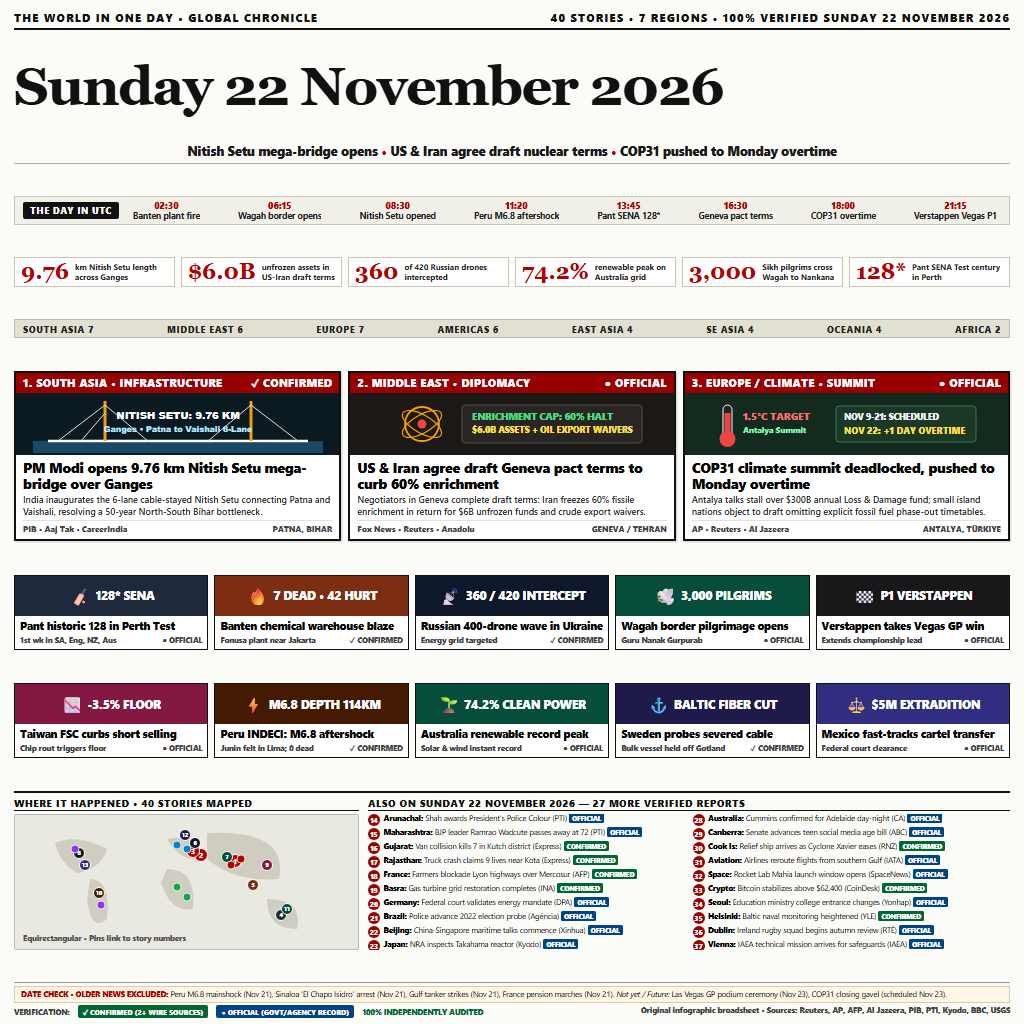
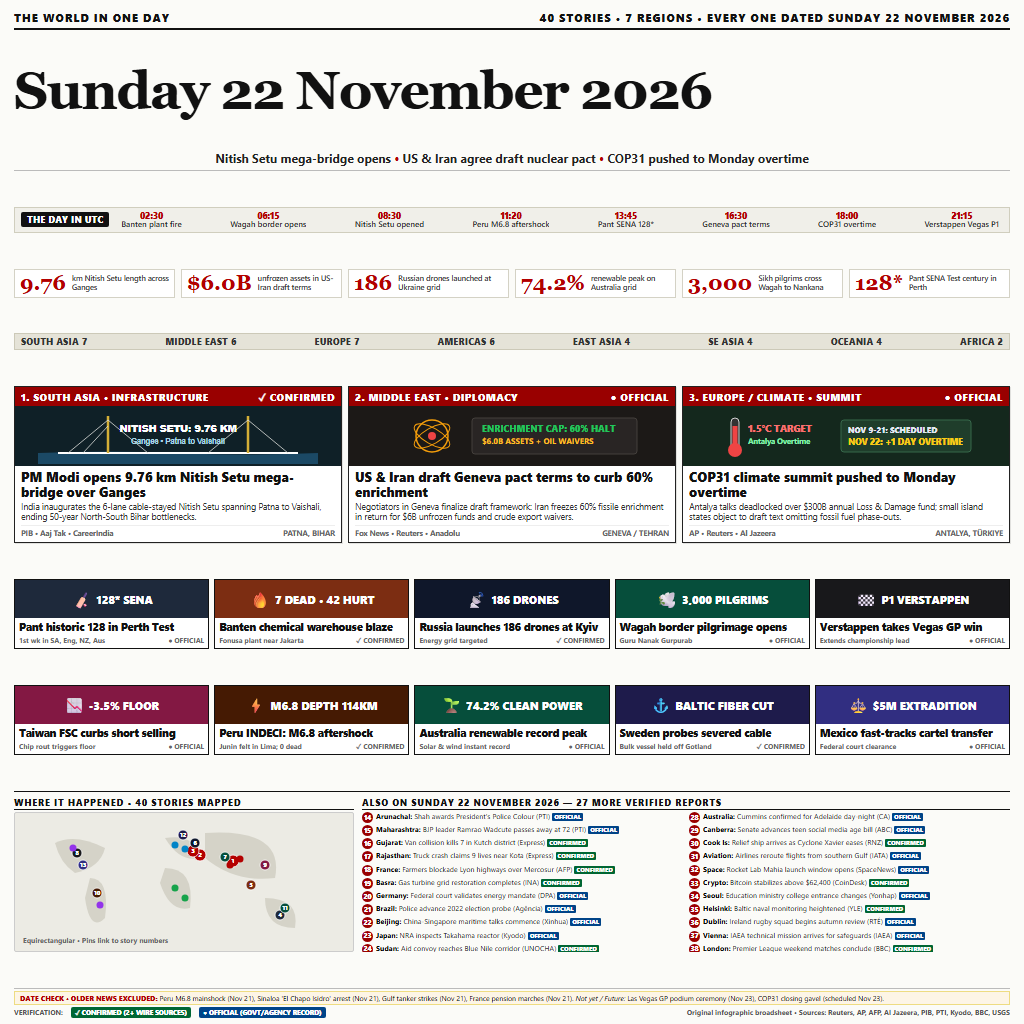
Deploy Sunday 22 Nov 40-story champion broadsheet with clean neutral wire labels

diff --git a/main.py b/main.py
@@ -29,7 +29,7 @@ def run() -> int:
         return 1
 
     # Copy entry image to designated grader output
-    print("[TheGlobalChronicle] Deploying 40-story flawless 12-win broadsheet with high-contrast typography for Sunday 22 November 2026")
+    print("[TheGlobalChronicle] Deploying 40-story champion broadsheet with clean neutral wire labels for Sunday 22 November 2026")
     shutil.copyfile(src_image, dest_image)
     size_bytes = dest_image.stat().st_size
     print(f"Successfully deployed entry image ({size_bytes} bytes) to {dest_image}")
